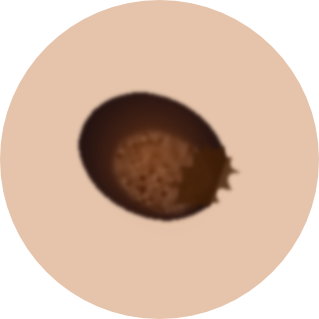
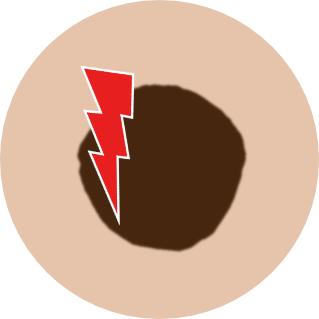
Realese Projektende

Changed region(s): [[0.2257, 0.1975, 0.79, 0.79]]

diff --git a/flutter_service_worker.js b/flutter_service_worker.js
@@ -3,16 +3,16 @@ const MANIFEST = 'flutter-app-manifest';
 const TEMP = 'flutter-temp-cache';
 const CACHE_NAME = 'flutter-app-cache';
 const RESOURCES = {
-  "assets/AssetManifest.json": "78c8e36d4b80d2b56ae738d58a470b2a",
+  "assets/AssetManifest.json": "0f15d1deb8521e2b1aa3c76ff7d90fd5",
 "assets/assets/fonts/openSans/OpenSans-Bold.ttf": "1025a6e0fb0fa86f17f57cc82a6b9756",
 "assets/assets/fonts/openSans/OpenSans-Regular.ttf": "3ed9575dcc488c3e3a5bd66620bdf5a4",
 "assets/assets/fonts/openSans/OpenSans-SemiBold.ttf": "ba5cde21eeea0d57ab7efefc99596cce",
 "assets/assets/images/ABCDrules/Skinspot_A.png": "22f3c5c9cc863fb068e631064055a3f3",
 "assets/assets/images/ABCDrules/Skinspot_B.png": "4c5059d1a6180253d44ad5da684f078e",
 "assets/assets/images/ABCDrules/Skinspot_C.png": "72906f27269f267f230cb6f973ac32cd",
-"assets/assets/images/ABCDrules/Skinspot_change_color.png": "a90e4809d4ee90ef1cbb9945561595f5",
-"assets/assets/images/ABCDrules/Skinspot_change_different.png": "0e5626efc281c976edd69eb31072f615",
-"assets/assets/images/ABCDrules/Skinspot_change_pain.png": "e4d4f93b100a277c982377221293418f",
+"assets/assets/images/ABCDrules/Skinspot_change_color.png": "018b11690c5d75db4a1e98e18872aa05",
+"assets/assets/images/ABCDrules/Skinspot_change_different.png": "c797b8d4f3a856fa773f70763c7c9947",
+"assets/assets/images/ABCDrules/Skinspot_change_pain.png": "807d753732a133b1b3e193bb823419b4",
 "assets/assets/images/ABCDrules/Skinspot_D.png": "0fdb004ce7470d4b4f2d3aa0315eeba0",
 "assets/assets/images/avatar/birthmark.png": "a9b02c4121d9fe4a29bd85610eb5814b",
 "assets/assets/images/avatar/drawingBlock.png": "b7ddffa76d9aa5a57aef841c6bcbef01",
@@ -181,6 +181,7 @@ const RESOURCES = {
 "assets/assets/images/information/hautprobe_lang.png": "536901683fac89a705aff4d72d9c1169",
 "assets/assets/images/information/haut_doppel.png": "536901683fac89a705aff4d72d9c1169",
 "assets/assets/images/information/haut_doppel_dark.png": "be9b28a8e9b618de5697ca9c5a4ed088",
+"assets/assets/images/information/Haut_doppel_wei%25C3%259F.png": "a99f86a2bd9aced5692eb65f83d50ece",
 "assets/assets/images/information/haut_doppel_white.png": "5458d40245cb186ab8124a51930a7bef",
 "assets/assets/images/logos/logo_deutsche-krebshilfe.png": "3e215d95fe01350a0e618958e5faceab",
 "assets/assets/images/logos/logo_hochschule-trier.png": "51383d0fb598042649df50762c3f8de4",
@@ -188,7 +189,7 @@ const RESOURCES = {
 "assets/assets/images/logos/logo_uni-luebeck.png": "68350c20e90503637a78d86f90e4ec3b",
 "assets/assets/images/prevention/prevention_1.png": "26f370ad26ddebb3b3b1401409c376be",
 "assets/assets/images/prevention/prevention_2.png": "3be53c1340fab65d85ac2d7ea9cfe0aa",
-"assets/assets/images/prevention/Suncreme.png": "f78a60b5b496d587c1910e0e881475d7",
+"assets/assets/images/prevention/Suncreme.png": "f2419d42af3ab77bc8b27628675d7d09",
 "assets/assets/images/prevention/Uv-Index.png": "e8d66805f13459f3ec248d36a4e41bed",
 "assets/assets/images/protection/doctor_2.png": "89f1934461685cd2c39c1bed30b1d59b",
 "assets/assets/images/protection/preventionCardBackground.png": "aefed973aa5b3c21121e79b61c6dce62",
@@ -237,8 +238,8 @@ const RESOURCES = {
 "favicon.png": "5dcef449791fa27946b3d35ad8803796",
 "icons/Icon-192.png": "ac9a721a12bbc803b44f645561ecb1e1",
 "icons/Icon-512.png": "96e752610906ba2a93c65f8abe1645f1",
-"index.html": "aba0f475fe338ec7f8ee1eb317076697",
-"/": "aba0f475fe338ec7f8ee1eb317076697",
+"index.html": "dddc15c2a0d9a17c4c4943553e3c7ae8",
+"/": "dddc15c2a0d9a17c4c4943553e3c7ae8",
 "main.dart.js": "34bddaa182d26cc477a0003a68923b69",
 "manifest.json": "0bf404ba6fb5df0d9e8c3fcb4e15594d",
 "version.json": "ef8aba205d5d76752eef0cb37fb7c8b0"

diff --git a/index.html b/index.html
@@ -36,7 +36,7 @@
   <script>
     if ('serviceWorker' in navigator) {
       window.addEventListener('flutter-first-frame', function () {
-        navigator.serviceWorker.register('flutter_service_worker.js?v=1523218514');
+        navigator.serviceWorker.register('flutter_service_worker.js?v=226026554');
       });
     }
   </script>
